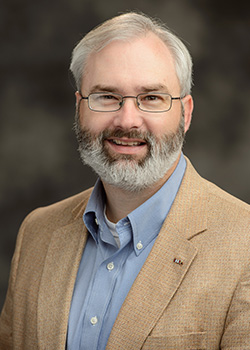
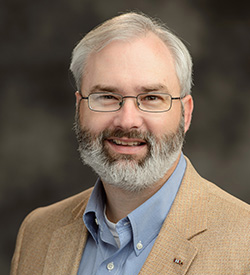
Make portraits grayscale on Team page
Made portraits grayscale on Team page unless hovering. Made a
miscellaneous fix by resizing the image of Dr. James Davis for a better
aspect ratio when the css sizing is applied.

diff --git a/src/shared/components/boardCard/boardCard.css b/src/shared/components/boardCard/boardCard.css
@@ -17,11 +17,16 @@
 	box-shadow: 0 9px 28px rgba(0,0,0,0.25);
 }
 
+.boardCard:hover > .img {
+	filter: grayscale(0%);
+}
+
 .img {
 	height: 125px;
 	width: 125px;
 	border-radius: 100%;
 	box-shadow: 0 2px 3px 1px rgba(0, 0, 0, 0.1);
+	filter: grayscale(100%);
 }
 
 .name {

diff --git a/src/shared/components/staffCard/staffCard.css b/src/shared/components/staffCard/staffCard.css
@@ -17,11 +17,16 @@
 	box-shadow: 0 9px 28px rgba(0,0,0,0.25);
 }
 
+.staffCard:hover > .img {
+	filter: grayscale(0%);
+}
+
 .img {
 	height: 125px;
 	width: 125px;
 	border-radius: 100%;
 	box-shadow: 0 2px 3px 1px rgba(0, 0, 0, 0.1);
+	filter: grayscale(100%);
 }
 
 .name {
